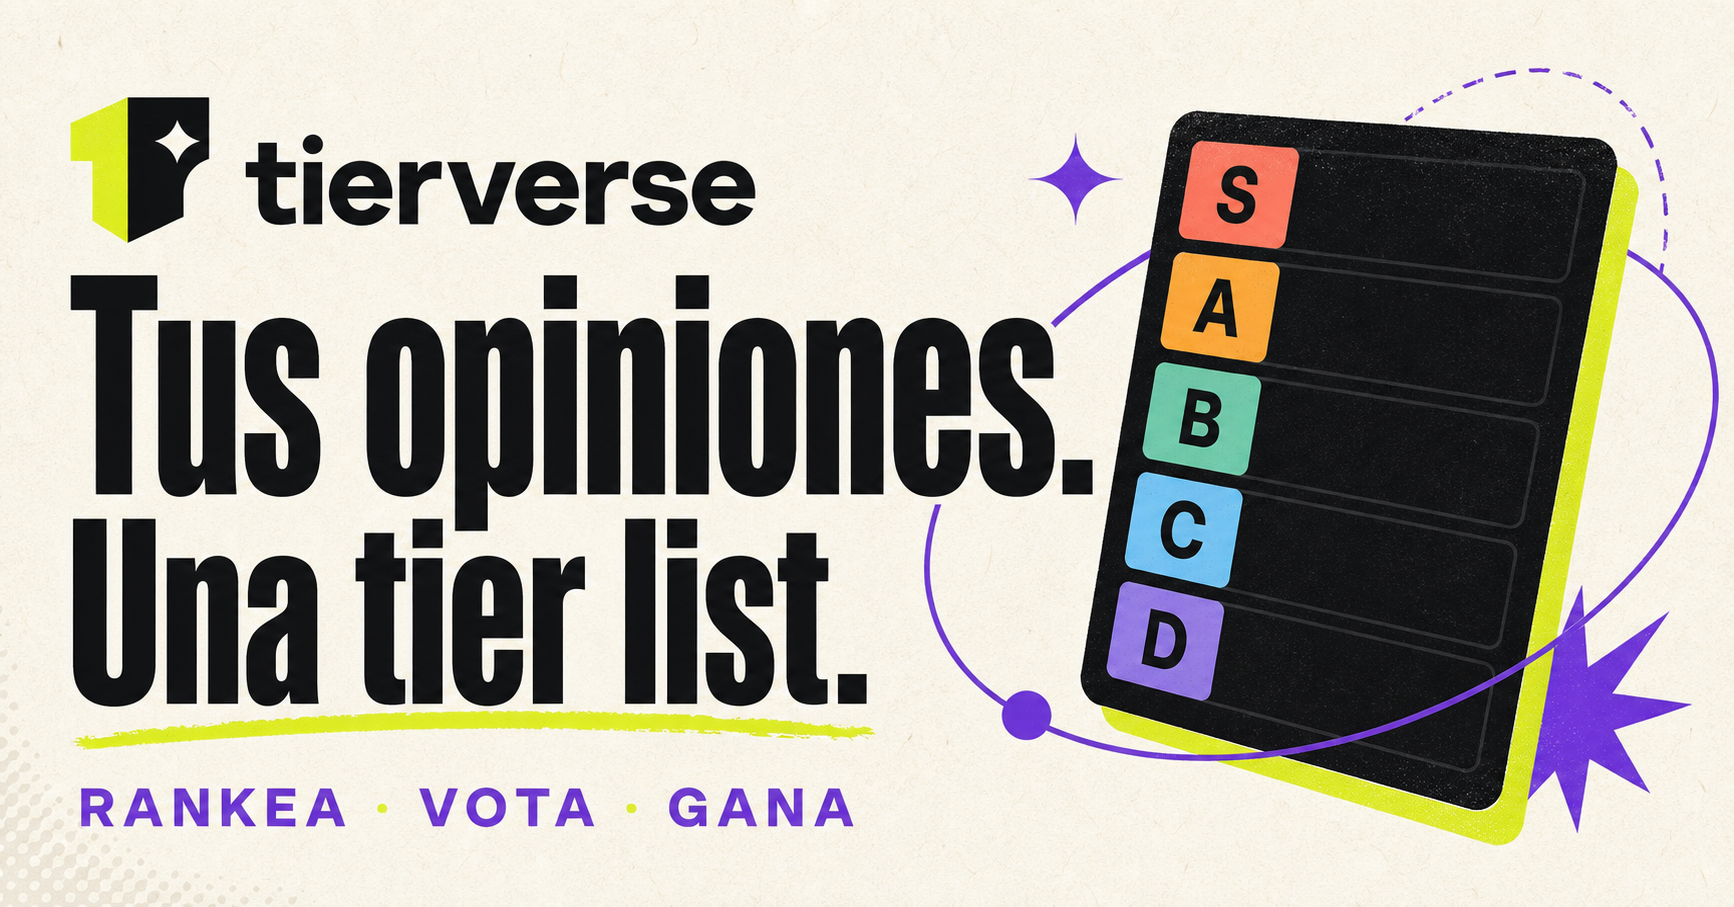
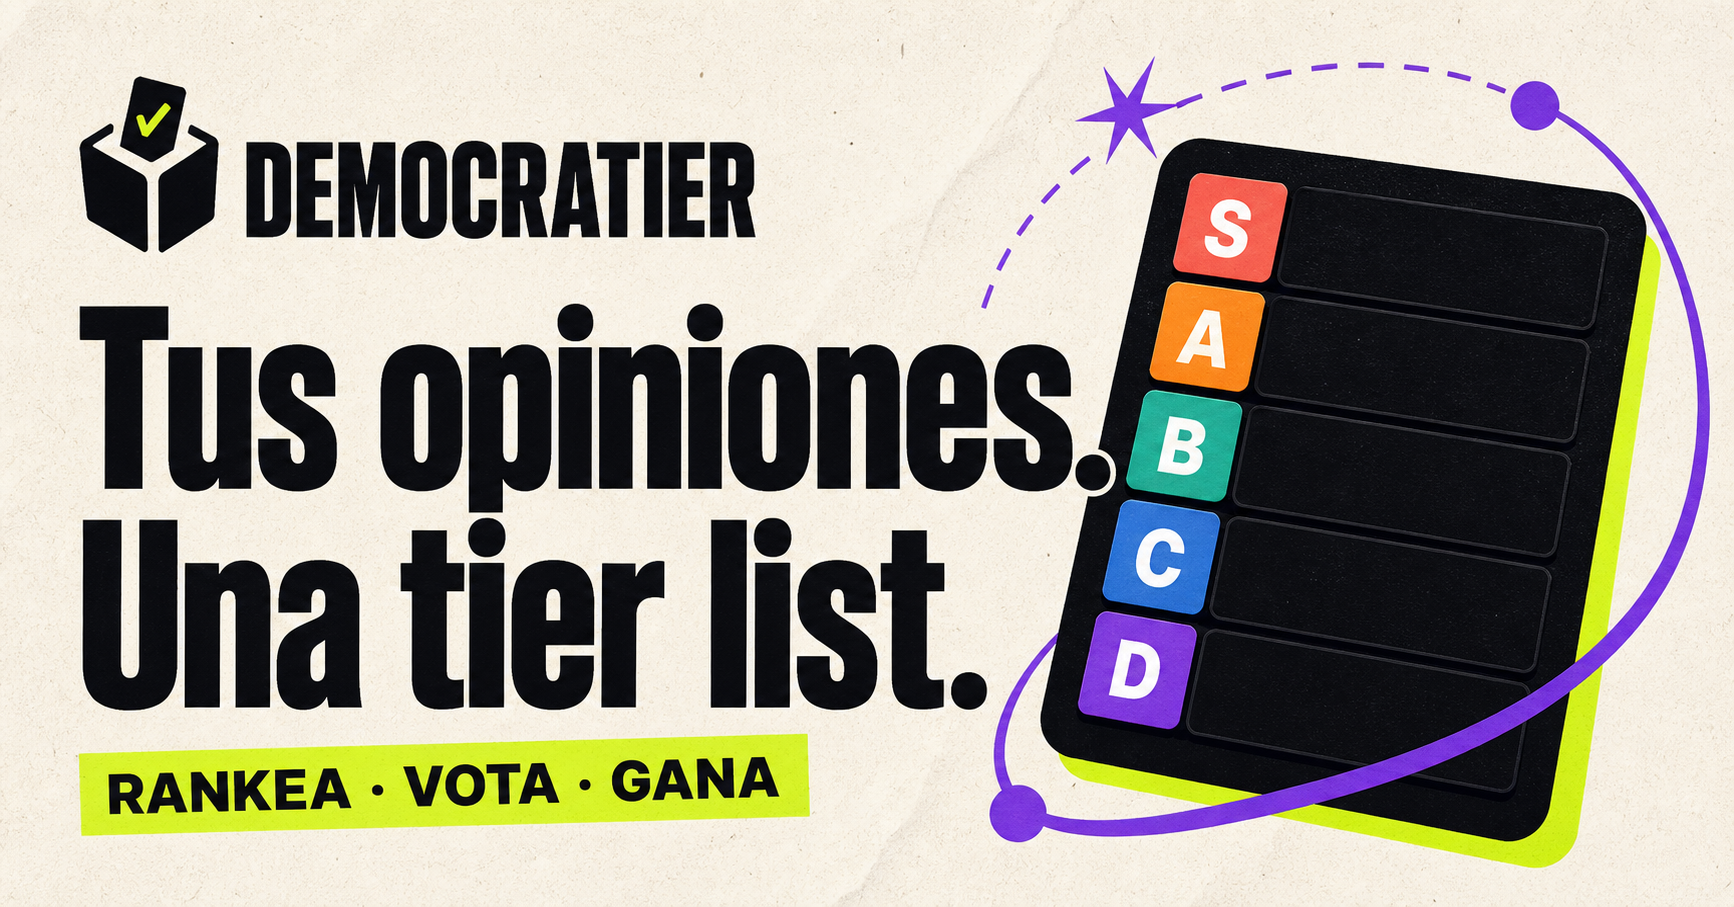
Rename Tierverse to DEMOCRATIER

diff --git a/app/page.tsx b/app/page.tsx
@@ -108,7 +108,7 @@ export default function Home() {
       <main className="appShell">
         <nav className="topbar">
           <button className="brand" onClick={() => { setRoom(null); setView("home"); }} aria-label="Volver al inicio">
-            <span className="brandMark">T</span><span>tierverse</span>
+            <span className="brandMark">D</span><span>DEMOCRATIER</span>
           </button>
           <div className="roomMeta">
             <span className="liveDot" /> Sala <strong>{room.code}</strong>
@@ -202,7 +202,7 @@ export default function Home() {
   return (
     <main className="landing">
       <nav className="topbar">
-        <div className="brand"><span className="brandMark">T</span><span>tierverse</span></div>
+        <div className="brand"><span className="brandMark">D</span><span>DEMOCRATIER</span></div>
         <button className="navJoin" onClick={() => setView("join")}>Unirme a una sala</button>
       </nav>
       <section className="hero">

diff --git a/app/layout.tsx b/app/layout.tsx
@@ -13,12 +13,12 @@ export async function generateMetadata(): Promise<Metadata> {
   const origin = `${protocol}://${host}`;
   return {
     metadataBase: new URL(origin),
-    title: "Tierverse — La tier list multijugador",
+    title: "DEMOCRATIER — La tier list multijugador",
     description: "Crea una sala, vota con tus amigos y descubre quién entiende mejor al grupo.",
     openGraph: {
-      title: "Tierverse — La tier list multijugador",
+      title: "DEMOCRATIER — La tier list multijugador",
       description: "Crea una sala, vota con tus amigos y descubre quién entiende mejor al grupo.",
-      images: [{ url: `${origin}/og.png`, width: 1734, height: 907, alt: "Tierverse: Tus opiniones. Una tier list." }],
+      images: [{ url: `${origin}/og.png`, width: 1734, height: 907, alt: "DEMOCRATIER: Tus opiniones. Una tier list." }],
     },
     twitter: { card: "summary_large_image", images: [`${origin}/og.png`] },
   };
